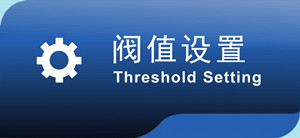
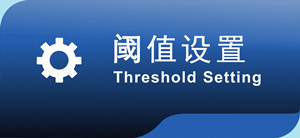
change:修改閥值 - 阈值

Changed region(s): [[0.36, 0.2319, 0.48, 0.4638]]

diff --git a/TestCabinet/total/total_thresholdset.cpp b/TestCabinet/total/total_thresholdset.cpp
@@ -1,5 +1,5 @@
 /**
-  *  修改总电流阀值
+  *  修改总电流阈值
   *         Lzy       2016-6-1
   */
 #include "total_thresholdset.h"
@@ -10,7 +10,7 @@ TOTAL_ThresholdSet::TOTAL_ThresholdSet(QWidget *parent) :
     ui(new Ui::TOTAL_ThresholdSet)
 {
     ui->setupUi(this);
-    com_setBackColour(tr("总电流阀值设置"),this);
+    com_setBackColour(tr("总电流阈值设置"),this);
 
     m_editBtn = 0;
     ui->groupBox->setHidden(true);
@@ -51,13 +51,13 @@ void TOTAL_ThresholdSet::setData(QVector <short> &min, QVector <short> &max)
   */
 bool TOTAL_ThresholdSet::checkCurValue(void)
 {
-    QString title = tr("总电流阀值设置错误");
+    QString title = tr("总电流阈值设置错误");
     double curMin, curMax;
 
     curMin = ui->curMin_1->value();
     curMax = ui->curMax_1->value();
     if(curMin > curMax){
-        QMessageBox::critical(this,title ,tr("\n总电流阀值设置不合法，请重新输入！\n 最小值不能大于最大值\n"));
+        QMessageBox::critical(this,title ,tr("\n总电流阈值设置不合法，请重新输入！\n 最小值不能大于最大值\n"));
         return false;
     }
     if(curMax > 32){
@@ -69,7 +69,7 @@ bool TOTAL_ThresholdSet::checkCurValue(void)
     curMin = ui->curMin_2->value();
     curMax = ui->curMax_2->value();
     if(curMin > curMax){
-        QMessageBox::critical(this,title ,tr("相数(L2)电流阀值设置不合法，请重新输入！\n 最小值不能大于最大值"));
+        QMessageBox::critical(this,title ,tr("相数(L2)电流阈值设置不合法，请重新输入！\n 最小值不能大于最大值"));
         return false;
     }
     if(curMax > 32){
@@ -80,7 +80,7 @@ bool TOTAL_ThresholdSet::checkCurValue(void)
     curMin = ui->curMin_3->value();
     curMax = ui->curMax_3->value();
     if(curMin > curMax){
-        QMessageBox::critical(this,title ,tr("相数(L3)电流阀值设置不合法，请重新输入！\n 最小值不能大于最大值"));
+        QMessageBox::critical(this,title ,tr("相数(L3)电流阈值设置不合法，请重新输入！\n 最小值不能大于最大值"));
         return false;
     }
     if(curMax > 32){
@@ -122,7 +122,7 @@ void TOTAL_ThresholdSet::setCurValue(void)
 }
 
 /**
-  * 功　能：显示阀值
+  * 功　能：显示阈值
   * 入口参数：
   * 返回值：无
   */
@@ -405,7 +405,7 @@ void TOTAL_ThresholdSet::on_cancelBtn_clicked()
     {
         QMessageBox msgBox(this);
          com_setBackColour(tr("信息提示"),&msgBox);
-        msgBox.setText(tr("\n您已修改阀值，是否要放弃修改？\n"));
+        msgBox.setText(tr("\n您已修改阈值，是否要放弃修改？\n"));
         msgBox.setStandardButtons (QMessageBox::Ok|QMessageBox::Cancel);
         msgBox.setButtonText (QMessageBox::Ok,QString("确定"));
         msgBox.setButtonText (QMessageBox::Cancel,QString("取 消"));

diff --git a/TestCabinet/fieldvalues/fv_thresholddlg.cpp b/TestCabinet/fieldvalues/fv_thresholddlg.cpp
@@ -1,5 +1,5 @@
 /**
-  * 阀值设置主窗口
+  * 阈值设置主窗口
   *         Lzy       2016-6-2
   */
 #include "fv_thresholddlg.h"
@@ -11,7 +11,7 @@ FV_ThresholdDlg::FV_ThresholdDlg(QWidget *parent) :
     ui(new Ui::FV_ThresholdDlg)
 {
     ui->setupUi(this);
-    com_setBackColour(tr("输出电流阀值"),this);
+    com_setBackColour(tr("输出电流阈值"),this);
 //     setStyleSheet(BTN_FOCUS_BACK_COLOR);
 
 #if defined(ARM_LINUX)
@@ -30,7 +30,7 @@ FV_ThresholdDlg::~FV_ThresholdDlg()
 }
 
 /**
-  * 功　能：设置阀值响应函数
+  * 功　能：设置阈值响应函数
   * 入口参数：bit -> 输出位
   * 返回值：
   */
@@ -44,7 +44,7 @@ void FV_ThresholdDlg::setSlot(int bit)
     if(ret == QDialog::Accepted)
     {
         dlg->getData(m_curMin, m_curMax);
-        if(bit) // 单独设置某位输出单元阀值
+        if(bit) // 单独设置某位输出单元阈值
         {
             short curMin = m_curMin.at(bit-1);
             short curMax = m_curMax.at(bit-1);
@@ -56,7 +56,7 @@ void FV_ThresholdDlg::setSlot(int bit)
 
             ui->okBtn->setEnabled( true);
         }
-        else // 统一设置单元阀值
+        else // 统一设置单元阈值
         {
             m_table_1->updateThreshold(bit, m_curMin.at(0), m_curMax.at(0));
             m_table_2->updateThreshold(bit, m_curMin.at(0), m_curMax.at(0));
@@ -129,7 +129,7 @@ void FV_ThresholdDlg::on_setAllBtn_clicked()
   */
  void FV_ThresholdDlg::slaveRecord(void)
  {
-     QString str = tr("输出电流阀值修改");
+     QString str = tr("输出电流阈值修改");
      QString msg = "Output";
 
      if(m_bit)
@@ -164,7 +164,7 @@ void FV_ThresholdDlg::on_okBtn_clicked()
 }
 
 /**
-  * 功　能：阀值刷新
+  * 功　能：阈值刷新
   * 入口参数：
   * 返回值：无
   */
@@ -191,7 +191,7 @@ void FV_ThresholdDlg::on_cancelBtn_clicked()
     {
         QMessageBox msgBox(this);
          com_setBackColour(tr("信息提示"),&msgBox);
-        msgBox.setText(tr("\n您已修改阀值，是否要放弃修改？\n"));
+        msgBox.setText(tr("\n您已修改阈值，是否要放弃修改？\n"));
         msgBox.setStandardButtons (QMessageBox::Ok|QMessageBox::Cancel);
         msgBox.setButtonText (QMessageBox::Ok,QString("确定"));
         msgBox.setButtonText (QMessageBox::Cancel,QString("取 消"));

diff --git a/TestCabinet/fieldvalues/fv_setdlg.cpp b/TestCabinet/fieldvalues/fv_setdlg.cpp
@@ -1,5 +1,5 @@
 /**
-  * 阀值设置窗口
+  * 阈值设置窗口
   *         Lzy       2016-6-2
   */
 #include "fv_setdlg.h"
@@ -10,7 +10,7 @@ FV_SetDlg::FV_SetDlg(QWidget *parent) :
     ui(new Ui::FV_SetDlg)
 {
     ui->setupUi(this);
-    com_setBackColour(tr("输出电流阀值设置"),this);
+    com_setBackColour(tr("输出电流阈值设置"),this);
 
     m_editBtn = m_bit =0;
     ui->okBtn->setEnabled(false);
@@ -245,13 +245,13 @@ void FV_SetDlg::on_btn_enter_clicked()
   */
 bool FV_SetDlg::checkCurValue(void)
 {
-    QString title = tr("电流阀值设置错误");
+    QString title = tr("电流阈值设置错误");
     double curMin, curMax;
 
     curMin = ui->curMin->value();
     curMax = ui->curMax->value();
     if(curMin > curMax){
-        QMessageBox::critical(this,title ,tr("\n输出单元电流阀值设置不合法，请重新输入！\n 最小值不能大于最大值\n"));
+        QMessageBox::critical(this,title ,tr("\n输出单元电流阈值设置不合法，请重新输入！\n 最小值不能大于最大值\n"));
         return false;
     }
     if(curMax > 16){
@@ -303,7 +303,7 @@ void FV_SetDlg::on_cancelBtn_clicked()
     {
         QMessageBox msgBox(this);
         com_setBackColour(tr("信息提示"),&msgBox);
-        msgBox.setText(tr("\n您已修改阀值，是否要放弃修改？\n"));
+        msgBox.setText(tr("\n您已修改阈值，是否要放弃修改？\n"));
         msgBox.setStandardButtons (QMessageBox::Ok|QMessageBox::Cancel);
         msgBox.setButtonText (QMessageBox::Ok,QString("确定"));
         msgBox.setButtonText (QMessageBox::Cancel,QString("取 消"));

diff --git a/TestCabinet/modbus/mdb_readthread.cpp b/TestCabinet/modbus/mdb_readthread.cpp
@@ -169,7 +169,7 @@ int MDB_ReadThread::updateCKSData(NPM_sCurKwh  &data ,uchar addr)
 }
 
 /**
-  * 功　能：更新电流阀值
+  * 功　能：更新电流阈值
   * 入口参数：data -> 结构体
   * 返回值： > 0
   */
@@ -245,7 +245,7 @@ int MDB_ReadThread::updateTotalCur(NPM_sTotalData  &data, uchar addr)
 }
 
 /**
-  * 功　能：更新总电流阀值
+  * 功　能：更新总电流阈值
   * 入口参数：data -> 结构体
   * 返回值： > 0
   */
@@ -340,7 +340,7 @@ int MDB_ReadThread::updateEnv(NPM_sAlarm  &data, uchar addr)
 }
 
 /**
-  * 功　能：更新环境阀值
+  * 功　能：更新环境阈值
   * 入口参数：data -> 结构体
   * 返回值： > 0
   */
@@ -526,11 +526,11 @@ void MDB_ReadThread::autoUpdateThread(NPM_sPDUData &pduData, uchar addr)
 {
     switch( ++m_stepThreshold)
     {
-    case  1: // 更新电流阀值
+    case  1: // 更新电流阈值
         updateCurThreshold(pduData.curKwh, addr);
         break;
 
-    case 2: // 更新总阀值
+    case 2: // 更新总阈值
         updateTotalCurThreshold(pduData.totalData, addr);
         break;
 
@@ -538,7 +538,7 @@ void MDB_ReadThread::autoUpdateThread(NPM_sPDUData &pduData, uchar addr)
 //        updateEnv(pduData.alarm, addr);
 //        break;
 
-//    case 4: // 更新阀值
+//    case 4: // 更新阈值
 //        updateEnvThreshold(pduData.alarm, addr);
 //        break;
 

diff --git a/TestCabinet/total/total_thresholddlg.cpp b/TestCabinet/total/total_thresholddlg.cpp
@@ -8,7 +8,7 @@ TOTAL_ThresholdDlg::TOTAL_ThresholdDlg(QWidget *parent) :
     ui(new Ui::TOTAL_ThresholdDlg)
 {
     ui->setupUi(this);
-    com_setBackColour(tr("总电流阀值"),this);
+    com_setBackColour(tr("总电流阈值"),this);
 
     m_initFlag = false;
     m_totalData = npm_get_pduData()->totalData; // 获取数据
@@ -212,7 +212,7 @@ void TOTAL_ThresholdDlg::timeoutDone(void)
   */
 void TOTAL_ThresholdDlg::slaveRecord(void)
 {
-    QString str = tr("总电流阀值修改");
+    QString str = tr("总电流阈值修改");
     QString msg = tr("修改范围:%1A~%2A").arg(m_tcurMin.at(0)/10.0).arg(m_tcurMax.at(0)/10.0);
     db_record_save(str,msg);
 }
@@ -295,7 +295,7 @@ void TOTAL_ThresholdDlg::on_quitBtn_clicked()
     {
         QMessageBox msgBox(this);
         com_setBackColour(tr("信息提示"),&msgBox);
-        msgBox.setText(tr("\n您已修改阀值，是否要放弃修改？\n"));
+        msgBox.setText(tr("\n您已修改阈值，是否要放弃修改？\n"));
         msgBox.setStandardButtons (QMessageBox::Ok|QMessageBox::Cancel);
         msgBox.setButtonText (QMessageBox::Ok,QString("确定"));
         msgBox.setButtonText (QMessageBox::Cancel,QString("取 消"));

diff --git a/TestCabinet/fieldvalues/fv_tablewidget.cpp b/TestCabinet/fieldvalues/fv_tablewidget.cpp
@@ -1,5 +1,5 @@
 /**
-  * 阀值显示表格
+  * 阈值显示表格
   *         Lzy       2016-6-2
   */
 #include "fv_tablewidget.h"
@@ -67,7 +67,7 @@ void FV_TableWidget::editBtnPress(int value)
 }
 
 /**
-  * 功　能：更新阀值
+  * 功　能：更新阈值
   * 入口参数：bit-> 输出位     0表示统一修改
   ×                     curMin -> 电流最小值
   ×                     curMax -> 电流最大值
@@ -79,7 +79,7 @@ void FV_TableWidget::updateThreshold(int bit, short curMin, short curMax)
     QString strMax = QString::number(curMax/ 10.0,'f', 1);
     int k=0;
 
-    if(bit == 0)  // 统一修改阀值
+    if(bit == 0)  // 统一修改阈值
     {
         for(int i=0; i<m_rows; ++i)
         {
@@ -211,7 +211,7 @@ void FV_TableWidget::updateWidget(void)
 
         checkAlarm(m_base + i, m_itemVec.at(k-1));
 
-        if(m_oneTime == false) // 只更新一次阀值
+        if(m_oneTime == false) // 只更新一次阈值
         {
             temp = m_data.curMin.at(m_base + i) / 10.0; // 最大值
             str = QString::number(temp,'f', 1);

diff --git a/TestCabinet/total/total_waitdlg.cpp b/TestCabinet/total/total_waitdlg.cpp
@@ -7,7 +7,7 @@ TOTAL_WaitDlg::TOTAL_WaitDlg(QWidget *parent) :
     ui(new Ui::TOTAL_WaitDlg)
 {
     ui->setupUi(this);
-    com_setBackColour(tr("设置总电流阀值"),this);
+    com_setBackColour(tr("设置总电流阈值"),this);
 
     m_time = 0;
     timer = new QTimer(this);

diff --git a/TestCabinet/fieldvalues/fv_waitdlg.cpp b/TestCabinet/fieldvalues/fv_waitdlg.cpp
@@ -11,7 +11,7 @@ FV_WaitDlg::FV_WaitDlg(QWidget *parent) :
     ui(new Ui::FV_WaitDlg)
 {
     ui->setupUi(this);
-    com_setBackColour(tr("设置单元电流阀值"),this);
+    com_setBackColour(tr("设置单元电流阈值"),this);
 
     m_time = 0;
     timer = new QTimer(this);

diff --git a/TestCabinet/fieldvalues/fv_maindlg.cpp b/TestCabinet/fieldvalues/fv_maindlg.cpp
@@ -6,7 +6,7 @@ FV_MainDlg::FV_MainDlg(QWidget *parent) :
     ui(new Ui::FV_MainDlg)
 {
     ui->setupUi(this);    
-    com_setBackColour(tr("阀值设置"),this);
+    com_setBackColour(tr("阈值设置"),this);
 }
 
 FV_MainDlg::~FV_MainDlg()

diff --git a/TestCabinet/mainwindow.cpp b/TestCabinet/mainwindow.cpp
@@ -99,7 +99,7 @@ void MainWindow::timeoutDone(void)
 }
 
 /**
-  * 功　能：阀值设置
+  * 功　能：阈值设置
   */
 void MainWindow::on_thresholdBtn_clicked()
 {
